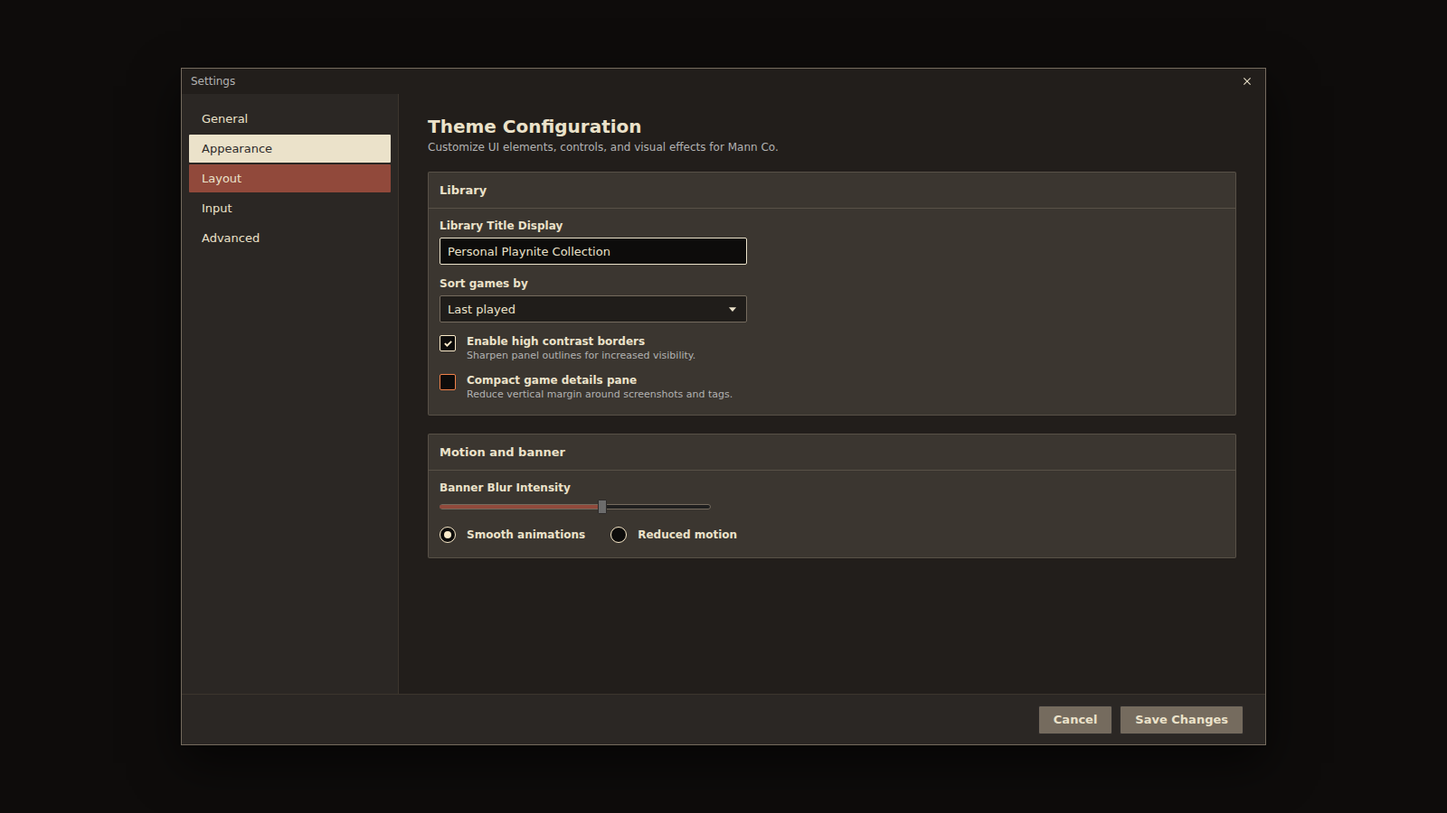
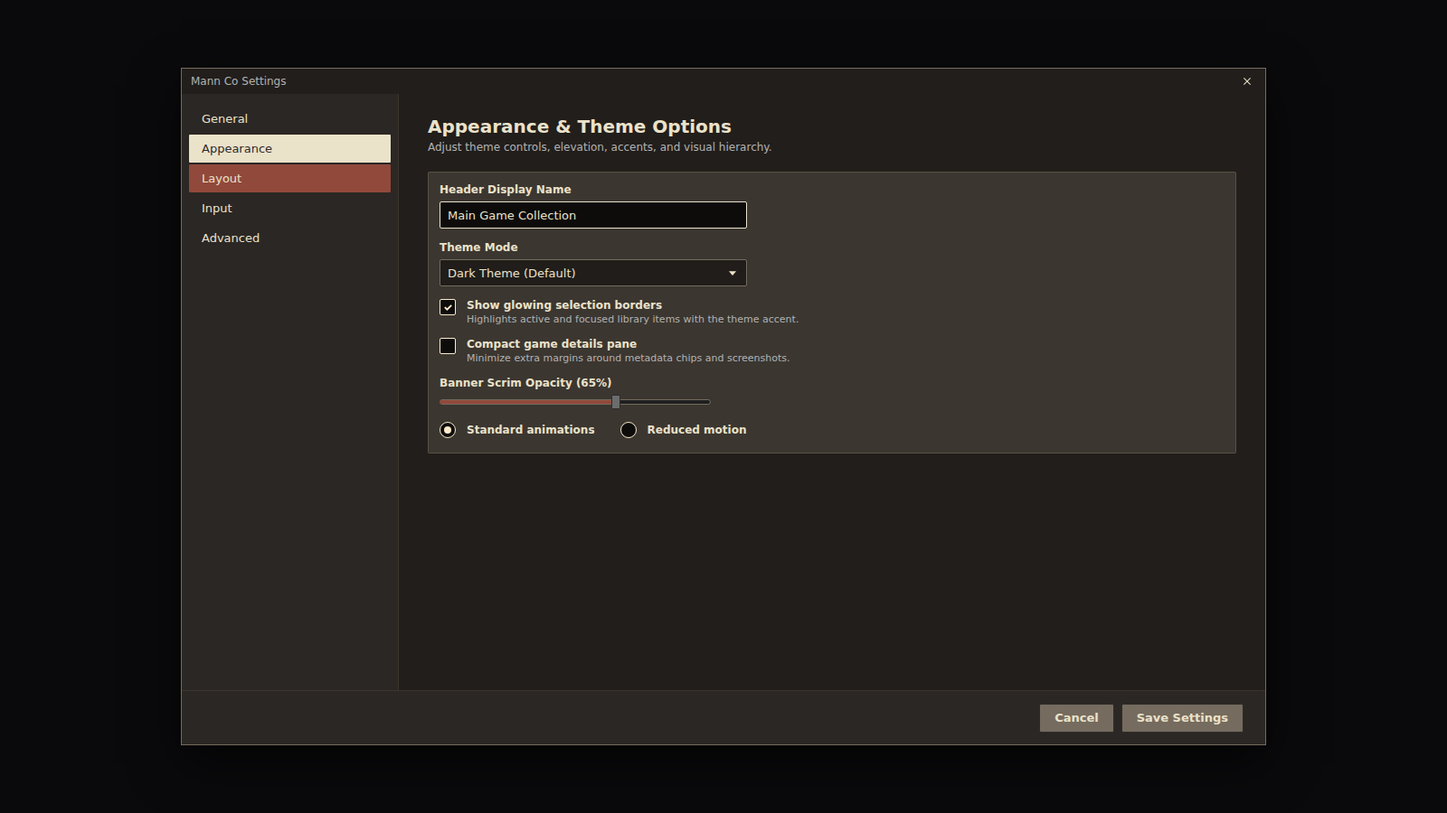
docs(themes): fix preview layout and sample data, apply to Mann Co
Surveyed the details and settings screenshots of the 20 existing themes and
wrote the consensus into src/themes/AGENTS.md -> Previews and screenshots:
canvas, rail, top bar, required game list panel, hero, button order, three
thumbs, the six-group metadata pane with fixed sample data, the settings
dialog geometry, nav items, the six controls in order and the footer.
AGENTS.md and the theme-dev skill point to it.

Mann Co previews rebuilt to match: Eldritch Void as the sample game, no cover
art or carousel arrows, canonical metadata and settings content.

Claude-Session: https://claude.ai/code/session_01WQY3WbVuDDmsnsmaii7FUv

diff --git a/src/themes/MannCo/art/preview-details.html b/src/themes/MannCo/art/preview-details.html
@@ -52,7 +52,6 @@
   .play-btn { height: 40px; width: 150px; background: var(--team-red); color: var(--tan-light); border: 1px solid var(--tan-darker); border-radius: var(--radius); display: flex; align-items: center; justify-content: center; }
   .sub-btn { height: 40px; min-width: 150px; background: var(--tan-dark); color: var(--tan-light); border: 1px solid var(--tan-darker); border-radius: var(--radius); display: flex; align-items: center; justify-content: center; }
   .sub-btn.icon { min-width: 40px; }
-  .cover { width: 150px; height: 200px; border: 2px solid var(--tan-darker); background: linear-gradient(135deg, var(--rust), var(--brown-mid)); }
   .content-columns { flex: 1; display: flex; gap: 24px; padding: 20px 24px; overflow: hidden; align-items: flex-start; }
   .left-col { flex: 1; display: flex; flex-direction: column; gap: 16px; max-width: 760px; }
   .screenshots-row { display: flex; gap: 8px; position: relative; }
@@ -60,9 +59,6 @@
   .screen-thumb.a { background: linear-gradient(120deg, #5b4a3b, #2f2924); }
   .screen-thumb.b { background: linear-gradient(120deg, #3b4a57, #24292e); }
   .screen-thumb.c { background: linear-gradient(120deg, #6a3b34, #2b2321); }
-  .nav { position: absolute; top: 50%; margin-top: -16px; width: 28px; height: 32px; background: var(--tan-dark); border: 1px solid var(--tan-darker); border-radius: var(--radius); display: flex; align-items: center; justify-content: center; z-index: 2; }
-  .nav svg { width: 14px; height: 14px; fill: var(--tan-light); }
-  .nav.l { left: 4px; } .nav.r { right: 4px; }
   .desc-heading { font-family: "Trebuchet MS", "DejaVu Sans", sans-serif; font-size: 14px; font-weight: 700; margin-bottom: 8px; }
   .desc-text { line-height: 1.55; }
   .right-col { width: 340px; background: var(--brown-lighter); border: 1px solid var(--edge); border-radius: var(--radius); padding: 4px 16px; flex: none; }
@@ -102,7 +98,7 @@
     <div class="game-row"><i style="background:#3d4a3b"></i>Engine Room</div>
     <div class="game-row off"><i style="background:#6b5a3a"></i>Foundry Run</div>
     <div class="game-row hot"><i style="background:#4b4b4b"></i>Gravel Pit</div>
-    <div class="game-row sel"><i style="background:#91493B"></i>Hydro Thunder: Last Stand</div>
+    <div class="game-row sel"><i style="background:#91493B"></i>Eldritch Void</div>
     <div class="game-row"><i style="background:#3b3f57"></i>Ironworks</div>
     <div class="game-row off"><i style="background:#57403b"></i>Junction 9</div>
     <div class="game-row"><i style="background:#404a50"></i>Killzone Courtyard</div>
@@ -115,58 +111,51 @@
     <div class="game-row"><i style="background:#3b4650"></i>Rail Yard</div>
     <div class="game-row"><i style="background:#5e4a35"></i>Sawmill</div>
     <div class="game-row"><i style="background:#46403a"></i>Trainyard</div>
-    <div class="game-row off"><i style="background:#3a4a5c"></i>Upward</div>
-    <div class="game-row"><i style="background:#4a3a52"></i>Viaduct</div>
-    <div class="game-row"><i style="background:#3c5560"></i>Well</div>
-    <div class="game-row"><i style="background:#4d5a62"></i>Yukon</div>
   </div>
   <div class="game-view">
   <div class="hero-banner">
     <div class="hero-wash"></div>
     <div class="hero-content">
       <div>
-        <div class="game-title head"><i></i>Hydro Thunder: Last Stand</div>
+        <div class="game-title head"><i></i>Eldritch Void</div>
         <div class="action-row">
           <div class="play-btn head">Play</div>
           <div class="sub-btn head">More</div>
           <div class="sub-btn icon head">&#9998;</div>
         </div>
       </div>
-      <div class="cover"></div>
     </div>
   </div>
   <div class="content-columns">
     <div class="left-col">
       <div class="screenshots-row">
-        <div class="nav l"><svg viewBox="0 0 24 24"><path d="M15,5 V19 L7,12 Z"/></svg></div>
         <div class="screen-thumb a"></div><div class="screen-thumb b"></div><div class="screen-thumb c"></div>
-        <div class="nav r"><svg viewBox="0 0 24 24"><path d="M9,5 V19 L17,12 Z"/></svg></div>
       </div>
       <div>
         <div class="desc-heading">Description</div>
-        <p class="desc-text">Eight crates, one flooded depot and a deadline nobody agrees on. Drive the rival convoy off the dock, hold the control point until the whistle and keep the supply line open as the tide comes in. Co-op for up to four, with a ranked ladder on the weekends.</p>
+        <p class="desc-text">Descend into an ancient subterranean citadel lost between cosmic dimensions. Uncover forbidden relics, survive tactical encounters with spectral custodians, and reshape the destiny of a forgotten world.</p>
       </div>
       <div>
         <div class="desc-heading">Notes</div>
-        <p class="desc-text">Finished the first tour. The night maps are the best part; still need the engineer set.</p>
+        <p class="desc-text">Finished the first act. The citadel's lower levels are the best part; still need the lantern relic.</p>
       </div>
     </div>
     <div class="right-col">
       <div class="meta-group">
         <div class="meta-row"><div class="meta-label">Completion status</div><div class="meta-value"><a>Playing</a></div></div>
-        <div class="meta-row"><div class="meta-label">Time played</div><div class="meta-value">42 hours</div></div>
+        <div class="meta-row"><div class="meta-label">Time played</div><div class="meta-value">36.5 hours</div></div>
+        <div class="meta-row"><div class="meta-label">Last played</div><div class="meta-value">Yesterday</div></div>
       </div>
       <div class="meta-group">
-        <div class="meta-row"><div class="meta-label">Community score</div><div class="meta-value good">86</div></div>
-        <div class="meta-row"><div class="meta-label">Critic score</div><div class="meta-value mixed">74</div></div>
+        <div class="meta-row"><div class="meta-label">Critic score</div><div class="meta-value good">94</div></div>
       </div>
       <div class="meta-group">
-        <div class="meta-row"><div class="meta-label">Developer</div><div class="meta-value"><a>Mann Studios</a></div></div>
-        <div class="meta-row"><div class="meta-label">Release date</div><div class="meta-value"><a>10/10/2007</a></div></div>
+        <div class="meta-row"><div class="meta-label">Developer</div><div class="meta-value"><a>Ironclad Interactive</a></div></div>
+        <div class="meta-row"><div class="meta-label">Release date</div><div class="meta-value"><a>4/18/2023</a></div></div>
       </div>
       <div class="meta-group">
         <div class="meta-row"><div class="meta-label">Platform</div><div class="chips"><div class="chip">PC (Windows)</div></div></div>
-        <div class="meta-row"><div class="meta-label">Genres</div><div class="chips"><div class="chip">Action</div><div class="chip">Team-based</div></div></div>
+        <div class="meta-row"><div class="meta-label">Genres</div><div class="chips"><div class="chip">RPG</div><div class="chip">Action</div><div class="chip">Atmospheric</div></div></div>
       </div>
       <div class="meta-group">
         <div class="meta-row"><div class="meta-label">Library</div><div class="meta-value"><a>Steam</a></div></div>

diff --git a/src/themes/MannCo/art/preview-settings.html b/src/themes/MannCo/art/preview-settings.html
@@ -13,7 +13,7 @@
     --slider-track: #1F1F1F; --slider-knob: #6C6C6C; --edge: rgba(117,107,94,.5); --radius: 2px;
   }
   * { box-sizing: border-box; margin: 0; padding: 0; }
-  body { width: 1600px; height: 900px; overflow: hidden; background: #0e0c0b; color: var(--tan-light); font-family: Verdana, "DejaVu Sans", sans-serif; font-size: 13px; display: flex; align-items: center; justify-content: center; }
+  body { width: 1600px; height: 900px; overflow: hidden; background: #0a0a0c; color: var(--tan-light); font-family: Verdana, "DejaVu Sans", sans-serif; font-size: 13px; display: flex; align-items: center; justify-content: center; }
   .head { font-family: "Trebuchet MS", "DejaVu Sans", sans-serif; font-weight: 700; }
   .dialog { width: 1200px; height: 750px; background: var(--brown-darkest); border: 1px solid var(--tan-dark); display: flex; flex-direction: column; overflow: hidden; box-shadow: 0 20px 50px rgba(0,0,0,.6); }
   .title-bar { height: 28px; flex: none; display: flex; align-items: center; padding-left: 10px; color: var(--gray); font-size: 12px; }
@@ -48,16 +48,16 @@
   .radio.unselected .radio-dot { display: none; }
   .slider-bar { width: 300px; height: 16px; position: relative; }
   .slider-track { position: absolute; top: 5px; left: 0; right: 0; height: 6px; background: var(--slider-track); border: 1px solid var(--tan-dark); border-radius: 3px; }
-  .slider-fill { position: absolute; top: 6px; left: 0; width: 60%; height: 4px; background: var(--rust); border-radius: 2px; }
-  .slider-thumb { position: absolute; top: 0; left: calc(60% - 5px); width: 10px; height: 16px; background: var(--slider-knob); border: 1px solid var(--tan-darker); border-radius: 1px; }
-  .dialog-footer { height: 56px; flex: none; background: var(--brown-dark); border-top: 1px solid var(--brown-mid); display: flex; align-items: center; justify-content: flex-end; padding: 0 24px; gap: 8px; }
+  .slider-fill { position: absolute; top: 6px; left: 0; width: 65%; height: 4px; background: var(--rust); border-radius: 2px; }
+  .slider-thumb { position: absolute; top: 0; left: calc(65% - 5px); width: 10px; height: 16px; background: var(--slider-knob); border: 1px solid var(--tan-darker); border-radius: 1px; }
+  .dialog-footer { height: 60px; flex: none; background: var(--brown-dark); border-top: 1px solid var(--brown-mid); display: flex; align-items: center; justify-content: flex-end; padding: 0 24px; gap: 8px; }
   .btn { height: 32px; padding: 0 16px; background: var(--tan-dark); color: var(--tan-light); border: 1px solid var(--tan-darker); border-radius: var(--radius); display: flex; align-items: center; }
 </style>
 </head>
 <body>
 <div class="dialog">
   <div class="title-bar">
-    <span>Settings</span>
+    <span>Mann Co Settings</span>
     <div class="win-controls"><div><svg viewBox="0 0 24 24"><path d="M5.5,4 L12,10.5 L18.5,4 L20,5.5 L13.5,12 L20,18.5 L18.5,20 L12,13.5 L5.5,20 L4,18.5 L10.5,12 L4,5.5 Z"/></svg></div></div>
   </div>
   <div class="dialog-body">
@@ -70,39 +70,33 @@
     </div>
     <div class="content">
       <div>
-        <div class="section-title head">Theme Configuration</div>
-        <div class="section-desc">Customize UI elements, controls, and visual effects for Mann Co.</div>
+        <div class="section-title head">Appearance &amp; Theme Options</div>
+        <div class="section-desc">Adjust theme controls, elevation, accents, and visual hierarchy.</div>
       </div>
       <div class="card">
-        <div class="card-head head">Library</div>
         <div class="card-body">
           <div class="field">
-            <div class="field-label">Library Title Display</div>
-            <div class="input-text focus">Personal Playnite Collection</div>
+            <div class="field-label">Header Display Name</div>
+            <div class="input-text focus">Main Game Collection</div>
           </div>
           <div class="field">
-            <div class="field-label">Sort games by</div>
-            <div class="input-text combo">Last played<svg viewBox="0 0 24 24"><path d="M5,9 H19 L12,17 Z"/></svg></div>
+            <div class="field-label">Theme Mode</div>
+            <div class="input-text combo">Dark Theme (Default)<svg viewBox="0 0 24 24"><path d="M5,9 H19 L12,17 Z"/></svg></div>
           </div>
           <div class="row top">
             <div class="checkbox"><svg viewBox="0 0 24 24"><path d="M4,12.5 L6.5,10 L10,13.5 L17.5,6 L20,8.5 L10,18.5 Z"/></svg></div>
-            <div><div class="field-label">Enable high contrast borders</div><div class="field-help">Sharpen panel outlines for increased visibility.</div></div>
+            <div><div class="field-label">Show glowing selection borders</div><div class="field-help">Highlights active and focused library items with the theme accent.</div></div>
           </div>
           <div class="row top">
-            <div class="checkbox hot"></div>
-            <div><div class="field-label">Compact game details pane</div><div class="field-help">Reduce vertical margin around screenshots and tags.</div></div>
+            <div class="checkbox"></div>
+            <div><div class="field-label">Compact game details pane</div><div class="field-help">Minimize extra margins around metadata chips and screenshots.</div></div>
           </div>
-        </div>
-      </div>
-      <div class="card">
-        <div class="card-head head">Motion and banner</div>
-        <div class="card-body">
           <div class="field">
-            <div class="field-label">Banner Blur Intensity</div>
+            <div class="field-label">Banner Scrim Opacity (65%)</div>
             <div class="slider-bar"><div class="slider-track"></div><div class="slider-fill"></div><div class="slider-thumb"></div></div>
           </div>
           <div class="row">
-            <div class="radio"><div class="radio-dot"></div></div><div class="field-label">Smooth animations</div>
+            <div class="radio"><div class="radio-dot"></div></div><div class="field-label">Standard animations</div>
             <div class="radio unselected" style="margin-left:16px"><div class="radio-dot"></div></div><div class="field-label">Reduced motion</div>
           </div>
         </div>
@@ -111,7 +105,7 @@
   </div>
   <div class="dialog-footer">
     <div class="btn head">Cancel</div>
-    <div class="btn head">Save Changes</div>
+    <div class="btn head">Save Settings</div>
   </div>
 </div>
 </body>

diff --git a/src/themes/AGENTS.md b/src/themes/AGENTS.md
@@ -117,8 +117,56 @@ Every field of Playnite's "Game fields to be displayed on details panel" list li
 
 ## Previews and screenshots
 
-All release screenshots and listing previews are generated from HTML replicas using Playwright / Chromium via `scripts/take-screenshots.ps1 -Extension <key>`:
-- **`art/preview-details.html` → `art/details.png`**: HTML replica of the Game Details view (left compact navigation rail, the game list as a secondary panel beside the game page with the current game selected, hero banner, screenshot carousel + description on the left of the page, metadata pane on the right).
+All release screenshots and listing previews are generated from HTML replicas using Playwright / Chromium via `scripts/take-screenshots.ps1 -Extension <key>` (never a capture of live Playnite). Two files per theme, both rendered at **1600 x 900**: `art/preview-details.html` -> `art/details.png`, `art/preview-settings.html` -> `art/settings.png`. A survey of the first 20 themes found the generic layout below in most of them; this section turns it into the rule. **The theme supplies colors, shapes, fonts, icons and its own labels; the geometry and the sample data below stay fixed**, so a row of screenshots from different themes compares like with like.
+
+### Both previews
+
+- Full-bleed 1600 x 900 `body`, `box-sizing: border-box`, `overflow: hidden`; fonts are the theme's with a system fallback (`DejaVu Sans` renders in the container). A top comment names the theme and says "approximate HTML replica".
+- Colors are CSS variables named after the theme's `tokens.css` entries, never new colors. Icons are the theme's own `Icon<Role>` geometries (inline `svg`), not emoji or Unicode symbols, except the pencil of the Edit button.
+- Nothing is drawn that the theme's XAML does not draw: no disclaimers, watermarks, captions or invented chrome in the image (the fan-theme notice lives in `info/NOTICE-*.txt`). Window buttons are drawn wherever the shell reserves them.
+- Shapes follow the theme's radius rules (no `CornerRadiusFull` on non-square elements). No `box-shadow` on anything except the settings dialog against its backdrop.
+
+### Details preview (`preview-details.html`)
+
+Layout, left to right, top to bottom:
+
+1. **Rail**: compact navigation rail at the left edge, 44px (the theme's own width if it differs), 1px divider on its inner edge. Main menu button on top, then Library (current) and Statistics.
+2. **Top bar**: spans the width right of the rail, 48-56px (the theme's height). Left to right: search box about 280px with the placeholder "Search library", then the icon buttons in the order view settings, filter, sort, details view (current), grid view, list view; window buttons at the far right. View switches are icons only.
+3. **Game list (secondary panel)**: required. A column between the rail and the game page, 250-350px wide (Playnite's `DetailsListWitdh`), full height under the top bar, 1px divider on the page side. At least 15 rows visible, one line each: a 24-32px square icon, then the name at the theme's list size. Exactly one row is selected (the theme's selected-row treatment), at most one other row shows the hover treatment, and a few uninstalled games use the muted text color. The selected game is the sample game. Sample names, in this order and cut at the panel height: Aegis Outpost, Barnstorm, Cargo Cult, Dockside Brawl, Engine Room, Foundry Run, Gravel Pit, Eldritch Void, Ironworks, Junction 9, Killzone Courtyard, Lumber Mill, Mercenary Park, Night Watch, Oilfield, Powerhouse, Quarry Siege, Rail Yard, Sawmill, Trainyard.
+4. **Game page** (right of the list): hero banner of the theme's default `GameBannerHeight`, gradient only (no art, no cover), fading into the page. Title bottom-left at the page's left padding, 28-44px as the theme draws it, with the sample game's icon square when the theme shows one. Under it the button row, 40-44px high, in the order **Play** (130-150px wide), **More**, **Edit** (pencil, icon-only), each drawn as the theme's XAML draws it.
+5. **Two columns** under the banner, top-aligned: left, a **Steam screenshots** row of 3 equal gradient thumbs (about 16:6.5, 8-14px gap, no arrows), then the headings **Description** and **Notes** (Playnite's own labels, `LOCGameDescriptionTitle`, `LOCNotesLabel`) over short paragraphs; right, the **metadata pane** at the theme's width (340-360px), top-aligned with the thumbs.
+6. **Metadata pane** uses the six collapsing groups of the game page skeleton, in order, each field a label (Playnite's label text) and a value:
+
+| Group | Rows shown |
+|-------|------------|
+| Progress | Completion status: Playing; Time played: 36.5 hours; Last played: Yesterday |
+| Scores | Critic score: 94, in the positive-rating color |
+| About | Developer: Ironclad Interactive; Release date: 4/18/2023 |
+| Tags | Platform: PC (Windows) as one chip; Genres: RPG, Action, Atmospheric as three chips |
+| Library | Library: Steam; Install size: 18.4 GB |
+| Links | Links: Store, Wiki, one per line |
+
+- **Sample game**: **Eldritch Void**. Use a differently named fictional game only when the theme is modeled on a specific game, and then keep the structure, order and data above.
+- **Sample text**: Description "Descend into an ancient subterranean citadel lost between cosmic dimensions. Uncover forbidden relics, survive tactical encounters with spectral custodians, and reshape the destiny of a forgotten world." Notes "Finished the first act. The citadel's lower levels are the best part; still need the lantern relic."
+
+### Settings preview (`preview-settings.html`)
+
+1. Near-black backdrop (about `#0a0a0c`, or the theme's darkest tone), with the dialog centered: **1220 x 760**, 1px border in the theme's popup edge color, the one allowed `box-shadow: 0 20px 50px rgba(0,0,0,.6)`.
+2. **Title bar**: the theme's caption height, text "<Theme name> Settings" on the left, the theme's close button at the right.
+3. **Left navigation**: 240-250px wide, five items **General, Appearance, Layout, Input, Advanced**, the second (Appearance) in the theme's selected-row treatment, one other showing hover. Themes modeled on a game may rename the items; the count and the active position stay.
+4. **Content**: heading "Appearance & Theme Options", subtitle "Adjust theme controls, elevation, accents, and visual hierarchy.", then one card (the theme's GroupBox look) holding, in this order:
+   1. Text input "Header Display Name" = "Main Game Collection", drawn focused
+   2. Combo box "Theme Mode" = "Dark Theme (Default)"
+   3. Checked checkbox "Show glowing selection borders", help "Highlights active and focused library items with the theme accent."
+   4. Unchecked checkbox "Compact game details pane", help "Minimize extra margins around metadata chips and screenshots."
+   5. Slider "Banner Scrim Opacity (65%)", thumb at 65%
+   6. Radio pair "Standard animations" (selected) and "Reduced motion"; radios stay round
+5. **Footer**: 56-65px bar with a top rule, two right-aligned buttons, **Cancel** then **Save Settings**, drawn with the theme's Button style (no extra primary color: Playnite has no primary button but Play).
+
+### Checking a preview
+
+Open the PNG before committing: the game list is there and its selected row matches the sample game; the metadata pane shows all six groups; the settings card shows all six controls in order; nothing is clipped at the canvas edge; colors come only from tokens.
+
 ## Control corner radii and shapes
 
 - **Why `CornerRadiusFull` distorts in WPF**: Unlike CSS (which scales corner radii uniformly), WPF's `Border` clamps horizontal and vertical radii independently: `radiusX = min(radiusX, width/2)` and `radiusY = min(radiusY, height/2)`. When a single huge radius (e.g. 9999 or 10000) is set on an element where `width != height`, WPF draws an ellipse/oval across the entire element rather than flat edges with circular caps.

diff --git a/.claude/skills/playnite-theme-dev/SKILL.md b/.claude/skills/playnite-theme-dev/SKILL.md
@@ -29,7 +29,7 @@ Every edit under `src/themes/<Theme>/` ends with `.\scripts\build-theme.ps1 -Ext
 7. **Shell:** `Views/MainWindow.xaml`, `Views/Sidebar.xaml`, `Views/TopPanel.xaml`, `DerivedStyles/MainWindowStyle.xaml`, `CustomControls/SidebarItem.xaml`, `CustomControls/TopPanelItem.xaml` (optionally `Views/Library.xaml`). Start each from Playnite's Default file, keep every `PART_*`, reserve the window buttons' width on the top bar's right. Navigation goes on the left: design the sidebar as a left rail (Playnite's default position); top/bottom are fallbacks only. Shared shell keys: styles `MainMenuButton`, `MainWindowButton`, `TopPanelSearchBox`; brushes `ShellBackgroundBrush`, `TopPanelBackgroundBrush`, `ContentBackgroundBrush`.
 8. **Controls:** for each, open the Default file at the snapshot's Playnite tag, keep structure and part names, restyle to the system's component (name it and its tokens in the file header). Usual set: Button, ToggleButton, RepeatButton, TextBox (+`BareTextBox`), PasswordBox, ComboBox, CheckBox, RadioButton, Slider (`SliderRangeButton`, `SliderThumb`; one-line SliderEx), ProgressBar, ScrollViewer (`ScrollBarThumb`)/Thumb, ToolTip, ContextMenu/Menu (one-line GameMenu, GameGroupMenu, TrayContextMenu), TabControl, GroupBox, ListBox, SearchBox, DetailsViewItemStyle, GridViewItemStyle, PlayButton, WindowBarButton, HighlightBorder.
    **Game page:** `Views/DetailsViewGameOverview.xaml` and `Views/GridViewGameOverview.xaml` follow the skeleton and metadata pane in `src/themes/AGENTS.md` -> Game page, dressed in the system's components. Banner spacer scales proportionally with `HeroArt` via `{StaticResource MathConverter}` (`'x * <DefaultSpacer> / <DefaultBanner>'`) and an `ActualHeight == 0` trigger, keeping default title/gradient scrim positions intact while dynamically moving top elements up/down when "Banner height (0 = off)" is changed in ThemeModifier. Never bind spacer height directly to `{DynamicResource GameBannerHeight}`.
-9. **HTML Previews & Screenshots:** every theme has two HTML preview templates under `art/`: `preview-details.html` (Game Details view) and `preview-settings.html` (Settings view showcasing checkboxes, radio buttons, sliders, text inputs, combo boxes, buttons). Render them into release screenshots with `.\scripts\take-screenshots.ps1 -Extension <key>`, producing `art/details.png` and `settings.png`. Playnite is never launched or captured directly for screenshots.
+9. **HTML Previews & Screenshots:** every theme has two HTML preview templates under `art/`: `preview-details.html` (Game Details view) and `preview-settings.html` (Settings view showcasing checkboxes, radio buttons, sliders, text inputs, combo boxes, buttons). Render them into release screenshots with `.\scripts\take-screenshots.ps1 -Extension <key>`, producing `art/details.png` and `settings.png`. Playnite is never launched or captured directly for screenshots. Geometry, sample game (Eldritch Void), game list panel, metadata data and settings controls are fixed by `src/themes/AGENTS.md` -> Previews and screenshots; read it before writing either file.
 10. **Build:** `.\scripts\build-theme.ps1 -Extension mytheme -Deploy -Restart [-DeployPath <Themes folder>]` (auto-sets active theme and starts/restarts Playnite). Warns about required shared keys still missing.
 11. **Finish:** `info/icon.png` (512x512, `.\scripts\render-addon-icon.ps1 -Svg logo.svg -Extension <key>`, default orange mark: never pass `-Color`, all tiles share it), database listing `info/danitesler_<key>.yaml`, `AGENTS.md` in the section order of `src/themes/AGENTS.md` -> Per-theme notes (only what differs from the shared anatomy), then `.\scripts\validate-extension.ps1 -Extension mytheme -Mode Package`. Check in ThemeModifier that palette edits (Editor tab) and shared brushes (Edit constants) recolor the restyled controls.
 

diff --git a/AGENTS.md b/AGENTS.md
@@ -36,7 +36,7 @@ Active add-ons catalog is in `src/extensions.json`. Per-extension notes live in 
 - **Game Page Layout**: SteamScreenshots in left column above description; metadata on right. Game banner spacer scales proportionally with HeroArt via MathConverter (`'x * <DefaultSpacer> / <DefaultBanner>'`), keeping default title/gradient scrim positions intact while moving top elements up/down dynamically when Banner height (0 = off) is modified.
 - **Icons & Brushes**: Add-on tile icons (`info/icon.png`) use default orange (`#FF7A1A`). Themes use brushes only (never `Color` keys).
 - **New Theme Reference Research**: When modeling a theme after a reference without ready tokens (game, film, OS, design system), **conduct deep research before coding/scaffolding**. Gather data from screenshots/captures, reference codebases/repos, style guides, or specs: measure colors, identify typography/fallbacks, study chrome/selection styles and icons, and log all sources/rules in `AGENTS.md` -> `Sources`.
-- **Theme Screenshots & Mockups**: All release screenshots (`details.png` and `settings.png` in `art/`) are generated exclusively from the HTML preview templates (`art/preview-details.html` and `art/preview-settings.html`) via `.\scripts\take-screenshots.ps1 -Extension <key>`. Never capture live Playnite desktop windows.
+- **Theme Screenshots & Mockups**: All release screenshots (`details.png` and `settings.png` in `art/`) are generated exclusively from the HTML preview templates (`art/preview-details.html` and `art/preview-settings.html`) via `.\scripts\take-screenshots.ps1 -Extension <key>`. Never capture live Playnite desktop windows. Layout, sample game and sample data of both previews are fixed in `src/themes/AGENTS.md` -> Previews and screenshots (the details view includes the game list panel).
 - **PRs/Releases**: One GitHub Release & one PlayniteAddonDatabase PR per add-on. Show PR copy to user before pushing.
 
 ## Skills (`.claude/skills/`)
